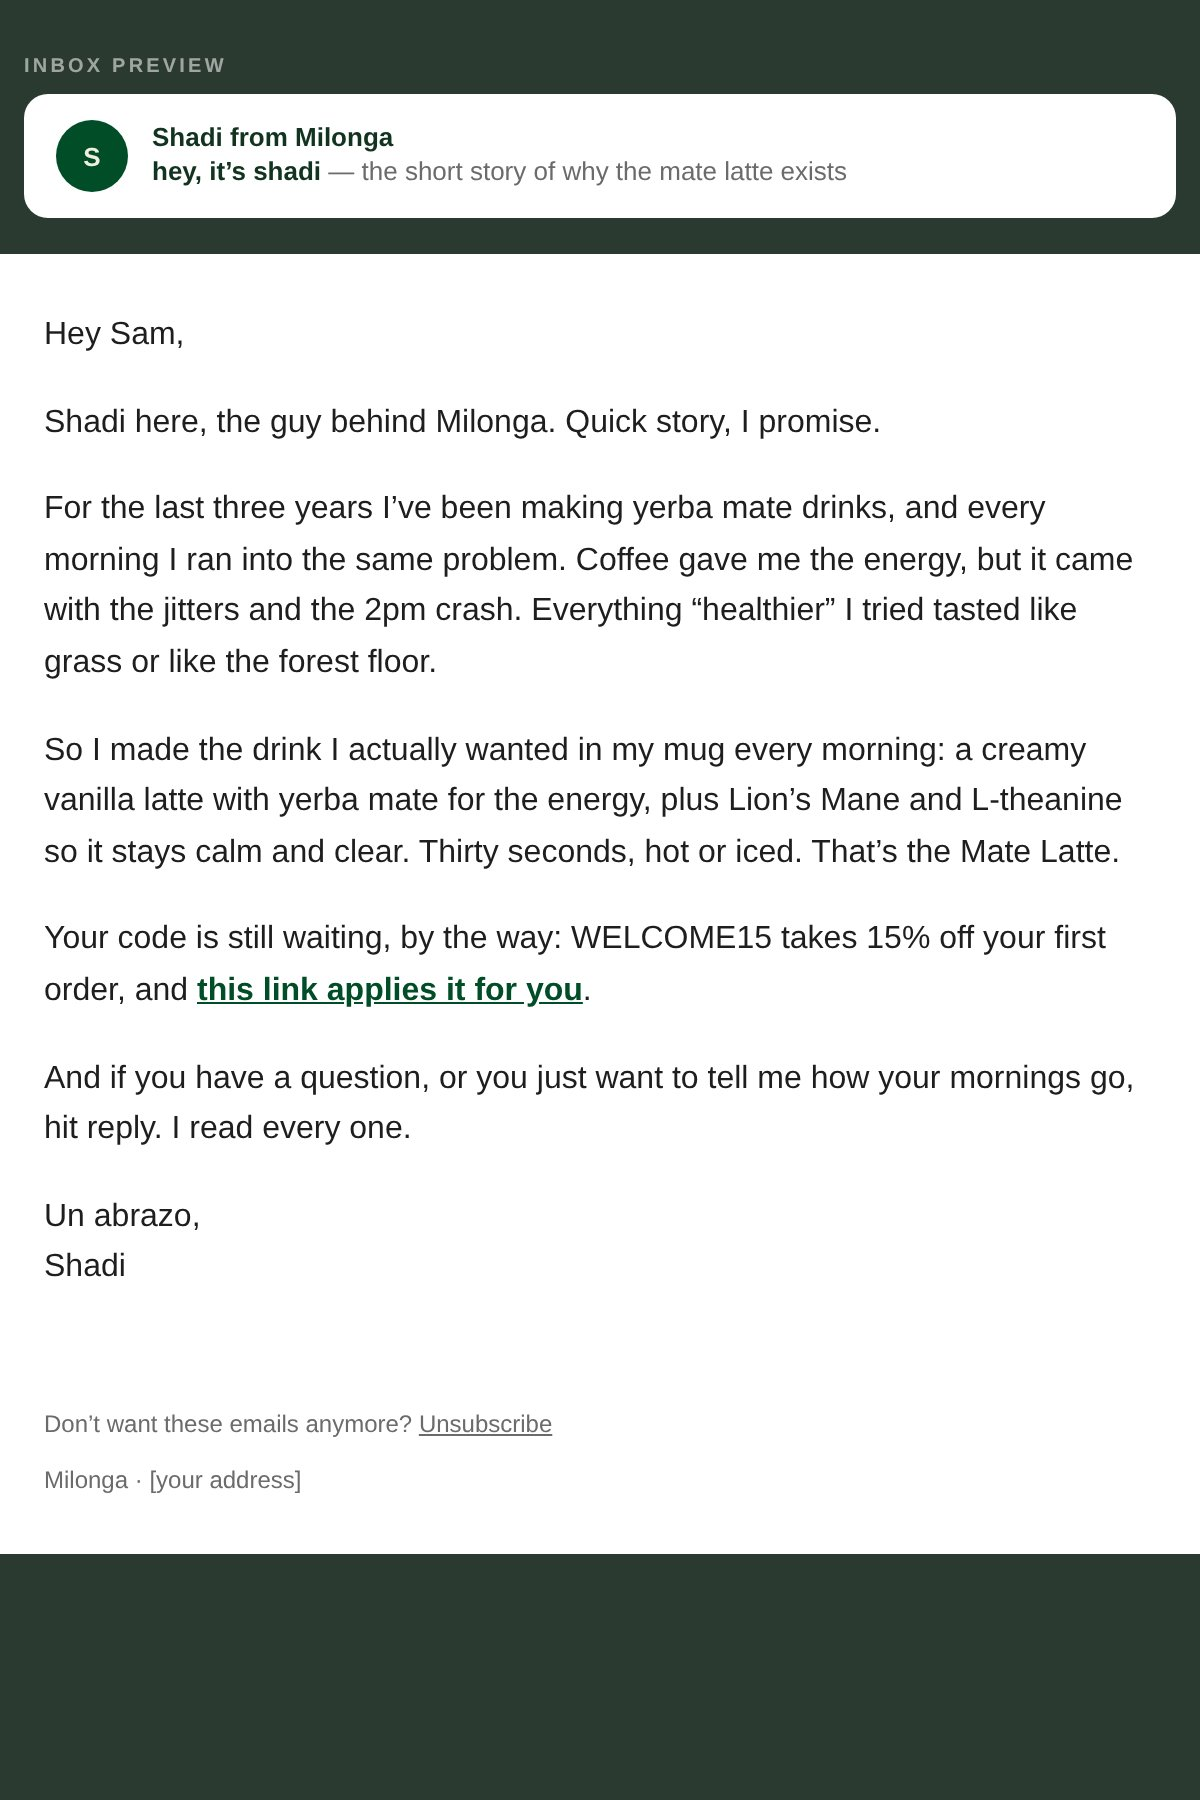
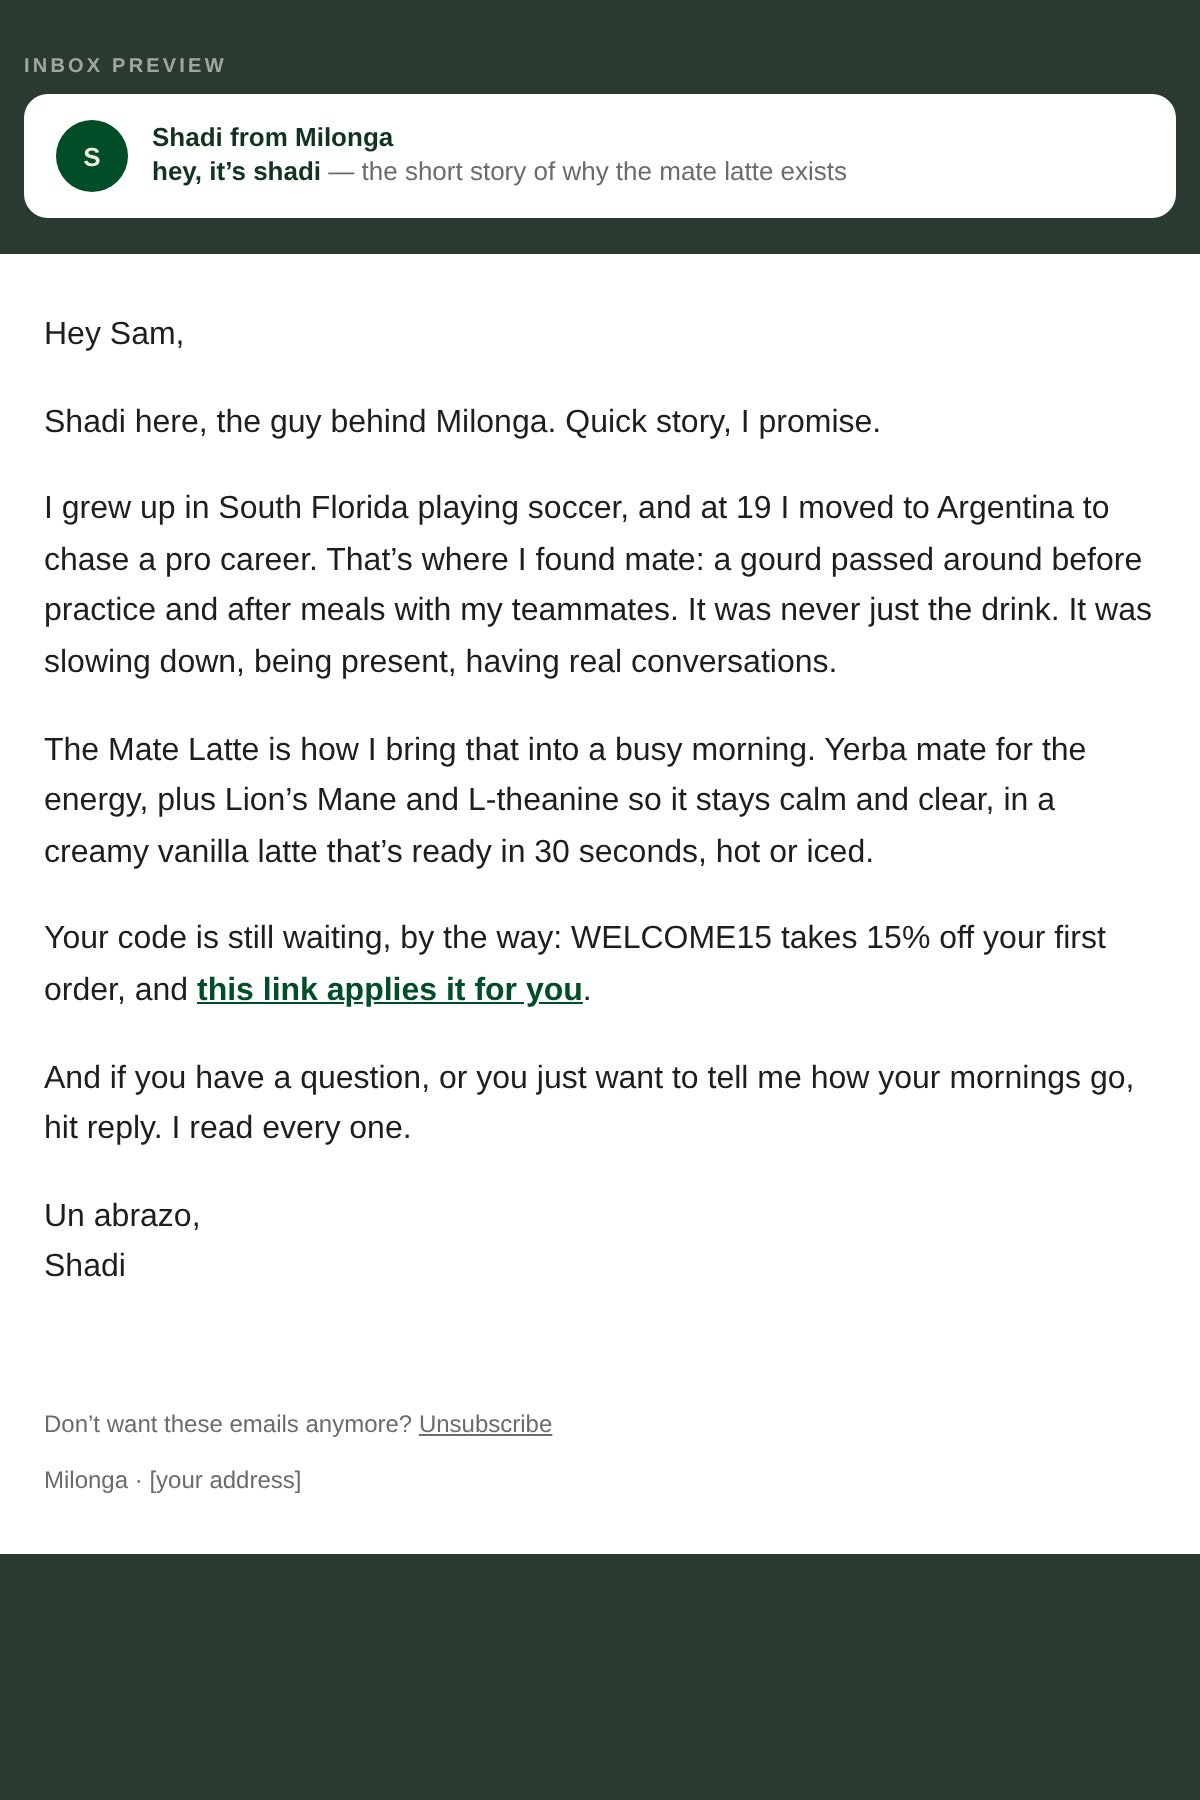
Welcome flow E2: Shadi's real origin story (South Florida, soccer, mate in Argentina) tied to the Mate Latte
Claude-Session: https://claude.ai/code/session_01NhEtXPnfeCJfN73SqBkUZ5

Changed region(s): [[0.0308, 0.4044, 0.925, 0.4978], [0.0308, 0.28, 0.9558, 0.3733]]

diff --git a/email-ds/refine/welcome-e2.html b/email-ds/refine/welcome-e2.html
@@ -29,8 +29,8 @@ body{margin:0;background:#2B3A31;padding:28px 0 60px}
 
 <p style="margin:0 0 18px;">Hey Sam,</p>
 <p style="margin:0 0 18px;">Shadi here, the guy behind Milonga. Quick story, I promise.</p>
-<p style="margin:0 0 18px;">For the last three years I&rsquo;ve been making yerba mate drinks, and every morning I ran into the same problem. Coffee gave me the energy, but it came with the jitters and the 2pm crash. Everything &ldquo;healthier&rdquo; I tried tasted like grass or like the forest floor.</p>
-<p style="margin:0 0 18px;">So I made the drink I actually wanted in my mug every morning: a creamy vanilla latte with yerba mate for the energy, plus Lion&rsquo;s Mane and L-theanine so it stays calm and clear. Thirty seconds, hot or iced. That&rsquo;s the Mate Latte.</p>
+<p style="margin:0 0 18px;">I grew up in South Florida playing soccer, and at 19 I moved to Argentina to chase a pro career. That&rsquo;s where I found mate: a gourd passed around before practice and after meals with my teammates. It was never just the drink. It was slowing down, being present, having real conversations.</p>
+<p style="margin:0 0 18px;">The Mate Latte is how I bring that into a busy morning. Yerba mate for the energy, plus Lion&rsquo;s Mane and L-theanine so it stays calm and clear, in a creamy vanilla latte that&rsquo;s ready in 30 seconds, hot or iced.</p>
 <p style="margin:0 0 18px;">Your code is still waiting, by the way: WELCOME15 takes 15% off your first order, and <a href="https://milonga.life/discount/WELCOME15?redirect=%2Fproducts%2Fthe-original-mate-latte&amp;utm_source=klaviyo&amp;utm_medium=email&amp;utm_campaign=welcome_mystery_offer&amp;utm_content=e2_text_link" target="_blank" style="color:#004D27;font-weight:bold;text-decoration:underline;">this link applies it for you</a>.</p>
 <p style="margin:0 0 18px;">And if you have a question, or you just want to tell me how your mornings go, hit reply. I read every one.</p>
 <p style="margin:0;">Un abrazo,<br>Shadi</p>

diff --git a/email-ds/exports/klaviyo/welcome-e2/welcome-e2.html b/email-ds/exports/klaviyo/welcome-e2/welcome-e2.html
@@ -17,8 +17,8 @@
 
 <p style="margin:0 0 18px;">Hey {{ first_name|default:'there' }},</p>
 <p style="margin:0 0 18px;">Shadi here, the guy behind Milonga. Quick story, I promise.</p>
-<p style="margin:0 0 18px;">For the last three years I&rsquo;ve been making yerba mate drinks, and every morning I ran into the same problem. Coffee gave me the energy, but it came with the jitters and the 2pm crash. Everything &ldquo;healthier&rdquo; I tried tasted like grass or like the forest floor.</p>
-<p style="margin:0 0 18px;">So I made the drink I actually wanted in my mug every morning: a creamy vanilla latte with yerba mate for the energy, plus Lion&rsquo;s Mane and L-theanine so it stays calm and clear. Thirty seconds, hot or iced. That&rsquo;s the Mate Latte.</p>
+<p style="margin:0 0 18px;">I grew up in South Florida playing soccer, and at 19 I moved to Argentina to chase a pro career. That&rsquo;s where I found mate: a gourd passed around before practice and after meals with my teammates. It was never just the drink. It was slowing down, being present, having real conversations.</p>
+<p style="margin:0 0 18px;">The Mate Latte is how I bring that into a busy morning. Yerba mate for the energy, plus Lion&rsquo;s Mane and L-theanine so it stays calm and clear, in a creamy vanilla latte that&rsquo;s ready in 30 seconds, hot or iced.</p>
 <p style="margin:0 0 18px;">Your code is still waiting, by the way: WELCOME15 takes 15% off your first order, and <a href="https://milonga.life/discount/WELCOME15?redirect=%2Fproducts%2Fthe-original-mate-latte&amp;utm_source=klaviyo&amp;utm_medium=email&amp;utm_campaign=welcome_mystery_offer&amp;utm_content=e2_text_link" target="_blank" style="color:#004D27;font-weight:bold;text-decoration:underline;">this link applies it for you</a>.</p>
 <p style="margin:0 0 18px;">And if you have a question, or you just want to tell me how your mornings go, hit reply. I read every one.</p>
 <p style="margin:0;">Un abrazo,<br>Shadi</p>
